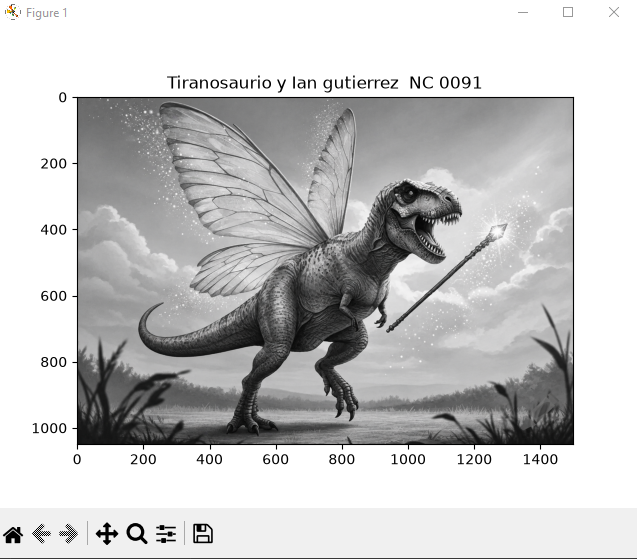
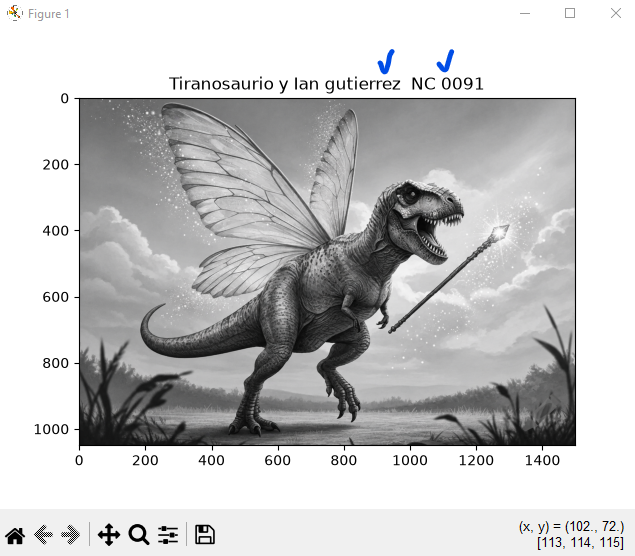
Add files via upload

diff --git a/leeme.md b/leeme.md
@@ -1,5 +1,5 @@
 ## imagen original
-![alt text](image-3.png)
+![alt text](image-1.png)
 
 ## puntos em la imagen por coordinacion
-![alt text](image-4.png)
+![alt text](image-2.png)
